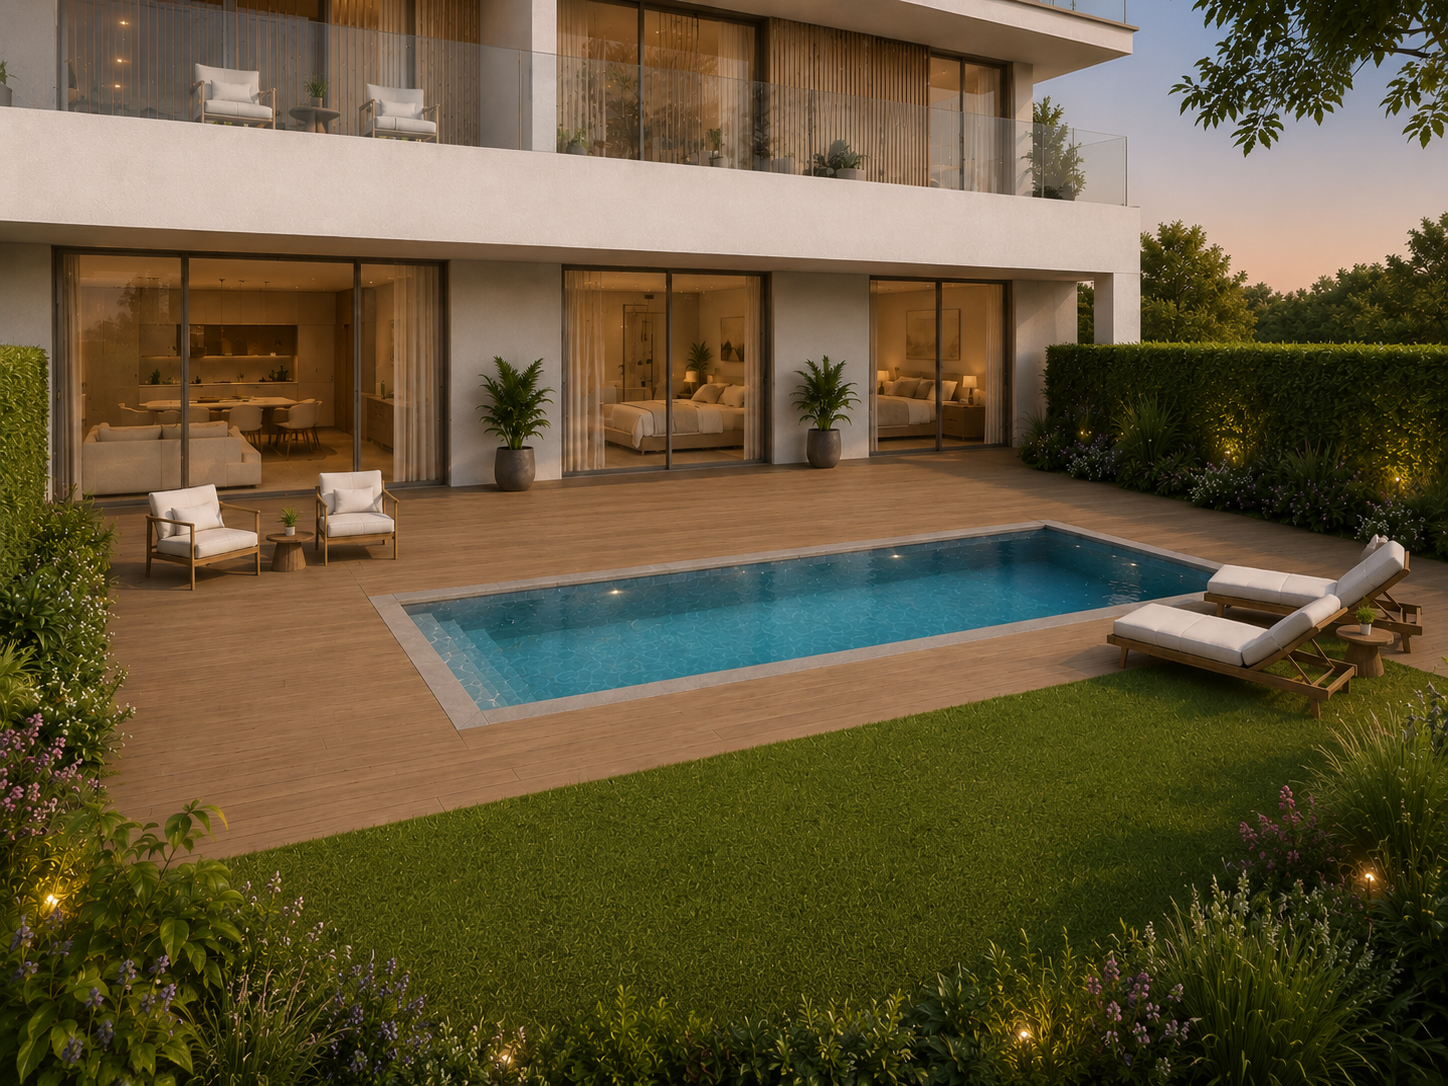
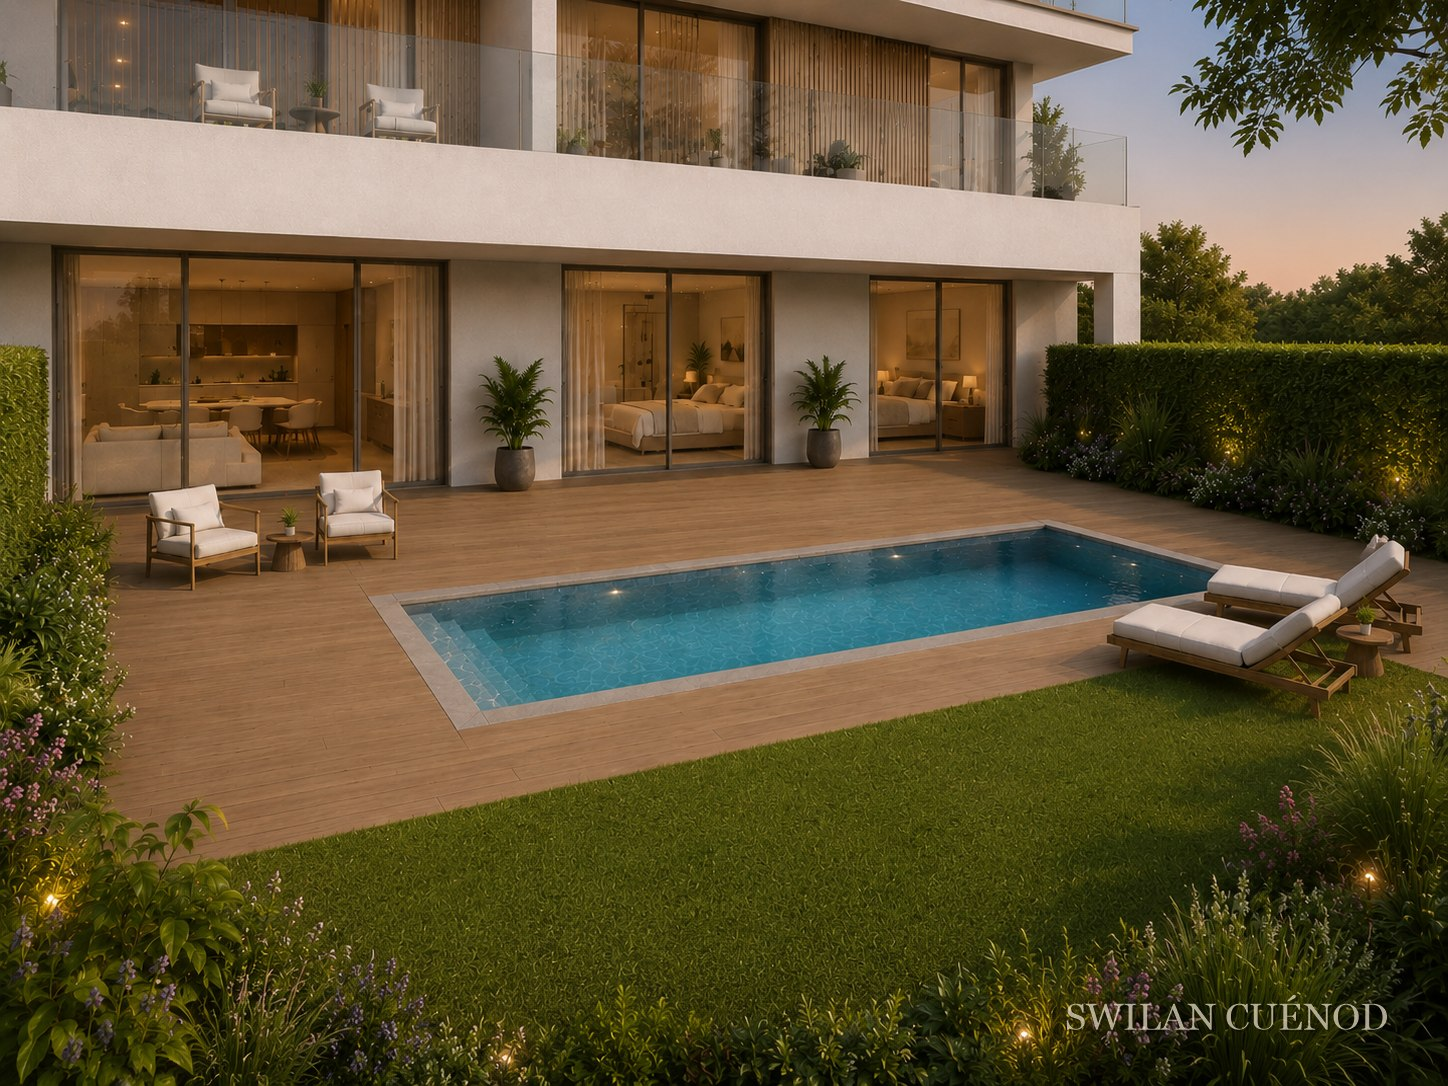
Gaia: renders com marca dagua (hero+fracoes) + galeria nova com 12 imagens e lightbox

Changed region(s): [[0.7148, 0.9116, 0.9634, 0.9724]]

diff --git a/gaia.html b/gaia.html
@@ -39,6 +39,16 @@
     .form-input-dark{width:100%;padding:.8rem 1rem;border:1px solid rgba(190,159,98,.25);background:rgba(255,255,255,.06);font-family:'Jost',sans-serif;font-size:.9rem;color:var(--cream);outline:none;}
     .form-input-dark:focus{border-color:var(--gold);}.form-input-dark::placeholder{color:rgba(247,243,236,.35);}
     .form-input-dark option{background:var(--navy);color:var(--cream);}
+    .gallery-grid{display:grid;grid-template-columns:repeat(2,1fr);gap:6px;}
+    @media(min-width:768px){.gallery-grid{grid-template-columns:repeat(4,1fr);}}
+    .gallery-grid img{width:100%;height:200px;object-fit:cover;cursor:pointer;transition:transform .3s;}
+    .gallery-grid img:hover{transform:scale(1.03);}
+    #lightbox{display:none;position:fixed;inset:0;z-index:10000;background:rgba(14,28,43,.96);align-items:center;justify-content:center;}
+    #lightbox.open{display:flex;}
+    #lightbox img{max-width:92vw;max-height:88vh;object-fit:contain;border:1px solid rgba(190,159,98,.3);}
+    #lightbox-close{position:absolute;top:20px;right:24px;color:var(--gold);font-size:2rem;cursor:pointer;}
+    #lightbox-prev,#lightbox-next{position:absolute;top:50%;transform:translateY(-50%);color:var(--gold);font-size:2rem;cursor:pointer;padding:0 16px;background:rgba(14,28,43,.6);}
+    #lightbox-prev{left:8px;}#lightbox-next{right:8px;}
   </style>
 </head>
 <body data-page="gaia">
@@ -131,6 +141,37 @@
     </div>
   </section>
 
+  <!-- GALERIA -->
+  <section id="galeria" style="background:var(--navy);padding:5rem 1.5rem;border-top:1px solid rgba(190,159,98,.12);">
+    <div style="max-width:1200px;margin:0 auto;">
+      <div class="section-title reveal" style="text-align:center;">
+        <span class="eyebrow">Galeria</span>
+        <h2 style="color:var(--cream);">Imagens do empreendimento</h2>
+        <span class="gold-line"></span>
+        <p style="color:rgba(247,243,236,.5);font-size:.82rem;margin-top:1rem;">Imagens ilustrativas · sujeitas a confirmação documental · clique para ampliar</p>
+      </div>
+      <div class="gallery-grid reveal">
+        <img src="assets/gaia-gal-01.jpg" alt="Render Gaia/Foz — 1" loading="lazy" data-idx="0"/>
+        <img src="assets/gaia-gal-02.jpg" alt="Render Gaia/Foz — 2" loading="lazy" data-idx="1"/>
+        <img src="assets/gaia-gal-03.jpg" alt="Render Gaia/Foz — 3" loading="lazy" data-idx="2"/>
+        <img src="assets/gaia-gal-04.jpg" alt="Render Gaia/Foz — 4" loading="lazy" data-idx="3"/>
+        <img src="assets/gaia-gal-05.jpg" alt="Render Gaia/Foz — 5" loading="lazy" data-idx="4"/>
+        <img src="assets/gaia-gal-06.jpg" alt="Render Gaia/Foz — 6" loading="lazy" data-idx="5"/>
+        <img src="assets/gaia-gal-07.jpg" alt="Render Gaia/Foz — 7" loading="lazy" data-idx="6"/>
+        <img src="assets/gaia-gal-08.jpg" alt="Render Gaia/Foz — 8" loading="lazy" data-idx="7"/>
+        <img src="assets/gaia-gal-09.jpg" alt="Render Gaia/Foz — 9" loading="lazy" data-idx="8"/>
+        <img src="assets/gaia-gal-10.jpg" alt="Render Gaia/Foz — 10" loading="lazy" data-idx="9"/>
+        <img src="assets/gaia-gal-11.jpg" alt="Render Gaia/Foz — 11" loading="lazy" data-idx="10"/>
+        <img src="assets/gaia-gal-12.jpg" alt="Render Gaia/Foz — 12" loading="lazy" data-idx="11"/>
+      </div>
+    </div>
+  </section>
+
+  <div id="lightbox" role="dialog" aria-modal="true">
+    <span id="lightbox-close">✕</span><span id="lightbox-prev">‹</span>
+    <img id="lightbox-img" src="" alt=""/><span id="lightbox-next">›</span>
+  </div>
+
   <!-- LISTA PRIVADA -->
   <section style="background:var(--navy);padding:5rem 1.5rem;border-top:1px solid rgba(190,159,98,.15);">
     <div style="max-width:640px;margin:0 auto;">
@@ -178,6 +219,16 @@
   document.addEventListener('DOMContentLoaded', () => {
     const u = waUrl("Olá, tenho interesse nas frações T2 em Gaia/Foz (Canidelo), com entrega prevista para final de 2026. Gostaria de receber o dossier.");
     ['hero-wa','form-wa','wa-float','wa-c','wa-d'].forEach(id => { const el=document.getElementById(id); if(el) el.href=u; });
+    const imgs = Array.from(document.querySelectorAll('.gallery-grid img')).map(i=>i.src);
+    let cur=0; const lb=document.getElementById('lightbox'), li=document.getElementById('lightbox-img');
+    function op(i){cur=i;li.src=imgs[i];lb.classList.add('open');document.body.style.overflow='hidden';}
+    function cl(){lb.classList.remove('open');document.body.style.overflow='';}
+    document.querySelectorAll('.gallery-grid img').forEach(im=>im.addEventListener('click',()=>op(+im.dataset.idx)));
+    if(lb){document.getElementById('lightbox-close').addEventListener('click',cl);
+    document.getElementById('lightbox-prev').addEventListener('click',()=>op((cur-1+imgs.length)%imgs.length));
+    document.getElementById('lightbox-next').addEventListener('click',()=>op((cur+1)%imgs.length));
+    lb.addEventListener('click',e=>{if(e.target===lb)cl();});
+    document.addEventListener('keydown',e=>{if(!lb.classList.contains('open'))return;if(e.key==='Escape')cl();if(e.key==='ArrowLeft')op((cur-1+imgs.length)%imgs.length);if(e.key==='ArrowRight')op((cur+1)%imgs.length);});}
   });
   </script>
 </body>